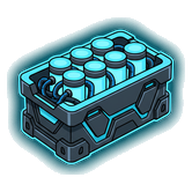
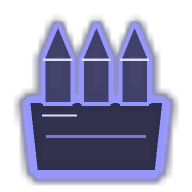
feat(visuels): bonus et nid redessinés dans le style néon des sprites
tools/generate_sprites.py (nouveau groupe « items ») :
- Munitions : chargeur néon (au lieu de la caisse 3D ombrée).
- x2 : pièce hexagonale et « x2 » tracé au néon (au lieu d'un simple texte).
- Invincibilité : étoile d'une seule couleur (au lieu de l'étoile multicolore).
- Multi-tir : trois tirs en éventail (au lieu des « feuilles » orange).
- Nid : nest_0..3.png, fissures lumineuses selon les dégâts (fx.nest_sprite
  garde son dessin de secours).
- Icônes de compétences skill_dash.png / skill_shield.png pour le HUD.

diff --git a/tools/generate_sprites.py b/tools/generate_sprites.py
@@ -1,7 +1,7 @@
 # -*- coding: utf-8 -*-
 """Génère les sprites des serpents et des mines dans un style néon unique (cyberSnake/*.png).
 
-Usage : python3 tools/generate_sprites.py
+Usage : python3 tools/generate_sprites.py [snakes] [items]
 Nécessite pygame. Même langage visuel que les icônes des bonus : contour lumineux épais,
 corps sombre, reflets clairs et halo. Les trois serpents partagent les mêmes formes ;
 seules la couleur et quelques détails (cornes de l'ennemi) changent.
@@ -10,6 +10,9 @@ seules la couleur et quelques détails (cornes de l'ennemi) changent.
 - snake_{p1,p2,enemy}_body.png : anneau (symétrique, n'est pas tourné en jeu)
 - snake_{p1,p2,enemy}_tail.png : pointe à gauche, base à droite (côté corps)
 - mine.png / mine_lit.png      : mine, noyau éteint / allumé (clignotement)
+- food_ammo, food_multiplier, icon_invincible, icon_multishot : bonus redessinés
+- nest_0..3.png                : nid (0 = intact, 3 = presque détruit)
+- skill_dash.png / skill_shield.png : compétences affichées dans le HUD
 
 J1 est dessiné en vert « cyber » et J2 en rose : le jeu recolore ces sprites dans la
 couleur choisie dans les Options (game_objects._hue_shifted).
@@ -184,20 +187,176 @@ def mine(lit):
     return L.render(0.95 if lit else 0.55)
 
 
-def main():
+# ---------------------------------------------------------------------------
+# Objets et bonus redessinés dans le même style (ceux qui détonnaient)
+# ---------------------------------------------------------------------------
+AMMO_BLUE = (150, 150, 255)
+GOLD = (255, 215, 0)
+INVINCIBLE_PINK = (255, 180, 220)
+MULTISHOT_ORANGE = (255, 110, 20)
+NEST_ORANGE = (255, 150, 40)
+DASH_CYAN = (0, 220, 255)
+SHIELD_GREEN = (0, 255, 120)
+
+
+def _mix3(a, b, t):
+    return tuple(int(a[i] + (b[i] - a[i]) * t) for i in range(3))
+
+
+def ammo():
+    """Chargeur : trois balles debout dans un étui."""
+    L = Layers()
+    c = AMMO_BLUE
+    hi = lighten(c, 0.7)
+    L.shape([P(0.14, 0.52), P(0.86, 0.52), P(0.82, 0.90), P(0.18, 0.90)], c, 0.28, 12)
+    for x in (0.30, 0.50, 0.70):
+        L.shape([P(x - 0.075, 0.54), P(x - 0.075, 0.30), P(x, 0.12), P(x + 0.075, 0.30), P(x + 0.075, 0.54)], c, 0.4, 8)
+        L.line(P(x - 0.075, 0.31), P(x + 0.075, 0.31), hi, 5, glow=False)
+    L.line(P(0.24, 0.71), P(0.76, 0.71), scale(c, 0.8), 6, glow=False)
+    L.line(P(0.22, 0.60), P(0.40, 0.60), hi, 4, glow=False)
+    return L.render()
+
+
+def multiplier():
+    """Pièce hexagonale et « x2 » tracé au néon (au lieu d'un simple texte)."""
+    L = Layers()
+    c = GOLD
+    hi = lighten(c, 0.7)
+    hexa = [P(0.5 + 0.44 * math.cos(math.pi / 6 + k * math.pi / 3), 0.5 + 0.44 * math.sin(math.pi / 6 + k * math.pi / 3)) for k in range(6)]
+    L.shape(hexa, c, 0.18, 10)
+    # « x »
+    L.line(P(0.20, 0.38), P(0.42, 0.64), hi, 12)
+    L.line(P(0.42, 0.38), P(0.20, 0.64), hi, 12)
+    # « 2 »
+    two = [P(0.52, 0.36), P(0.59, 0.28), P(0.71, 0.28), P(0.78, 0.36), P(0.77, 0.46), P(0.53, 0.70), P(0.80, 0.70)]
+    pygame.draw.lines(L.glow, hi + (255,), False, two, 24)
+    pygame.draw.lines(L.art, hi + (255,), False, two, 12)
+    for pt in two:
+        pygame.draw.circle(L.art, hi + (255,), (int(pt[0]), int(pt[1])), 6)
+    return L.render()
+
+
+def invincible():
+    """Étoile néon d'une seule couleur, avec étincelles."""
+    L = Layers()
+    c = INVINCIBLE_PINK
+    hi = lighten(c, 0.7)
+
+    def star(r_out, r_in, cx=0.5, cy=0.53):
+        return [P(cx + (r_out if k % 2 == 0 else r_in) * math.cos(-math.pi / 2 + k * math.pi / 5),
+                  cy + (r_out if k % 2 == 0 else r_in) * math.sin(-math.pi / 2 + k * math.pi / 5)) for k in range(10)]
+    L.shape(star(0.44, 0.19), c, 0.25, 11)
+    pygame.draw.polygon(L.art, hi + (255,), star(0.24, 0.10), 5)
+    for (x, y, r) in ((0.16, 0.16, 0.06), (0.86, 0.22, 0.045), (0.84, 0.86, 0.05)):
+        L.line(P(x - r, y), P(x + r, y), hi, 5)
+        L.line(P(x, y - r), P(x, y + r), hi, 5)
+    return L.render()
+
+
+def multishot():
+    """Trois tirs en éventail depuis un canon."""
+    L = Layers()
+    c = MULTISHOT_ORANGE
+    hi = lighten(c, 0.7)
+    base = (0.16, 0.5)
+    L.shape([P(0.06, 0.40), P(0.24, 0.40), P(0.30, 0.50), P(0.24, 0.60), P(0.06, 0.60)], c, 0.35, 9)
+    for ang in (-28, 0, 28):
+        a = math.radians(ang)
+        x0, y0 = base[0] + 0.20 * math.cos(a), base[1] + 0.20 * math.sin(a)
+        x1, y1 = base[0] + 0.66 * math.cos(a), base[1] + 0.66 * math.sin(a)
+        L.line(P(x0, y0), P(x1, y1), c, 12)
+        for sgn in (-1, 1):  # Pointe de flèche
+            b = a + math.pi + sgn * 0.5
+            L.line(P(x1, y1), P(x1 + 0.12 * math.cos(b), y1 + 0.12 * math.sin(b)), c, 10)
+        L.line(P(x0, y0), P(x1, y1), hi, 4, glow=False)
+    return L.render()
+
+
+def nest(step):
+    """Nid : œuf alien au contour néon ; step 0..3 = dégâts (fissures lumineuses)."""
+    L = Layers()
+    c = _mix3(NEST_ORANGE, (255, 60, 50), step / 3.0)
+    hi = lighten(c, 0.6)
+    rect = pygame.Rect(int(0.20 * W), int(0.08 * W), int(0.60 * W), int(0.84 * W))
+    pygame.draw.ellipse(L.glow, c + (255,), rect.inflate(20, 20), 28)
+    pygame.draw.ellipse(L.art, scale(c, 0.22) + (245,), rect)
+    pygame.draw.ellipse(L.art, c + (255,), rect, 12)
+    # Segments de la coquille
+    for k in (-1, 1):
+        inner = pygame.Rect(int((0.5 - 0.16) * W) if k < 0 else int(0.5 * W - 0.02 * W), int(0.18 * W), int(0.18 * W), int(0.64 * W))
+        start, end = (math.radians(90), math.radians(270)) if k < 0 else (math.radians(-90), math.radians(90))
+        pygame.draw.arc(L.art, scale(c, 0.7) + (255,), inner, start, end, 5)
+    L.line(P(0.5, 0.18), P(0.5, 0.82), scale(c, 0.7), 5, glow=False)
+    # Noyau vivant
+    L.circle(P(0.5, 0.56), 0.09 * W, hi)
+    # Fissures lumineuses selon les dégâts
+    cracks = [[(0.36, 0.14), (0.44, 0.34), (0.36, 0.46)], [(0.64, 0.20), (0.56, 0.40), (0.66, 0.54)],
+              [(0.40, 0.90), (0.48, 0.72), (0.40, 0.62)]]
+    for pts in cracks[:step]:
+        pp = [P(*q) for q in pts]
+        pygame.draw.lines(L.glow, (255, 240, 200, 255), False, pp, 16)
+        pygame.draw.lines(L.art, (255, 240, 200, 255), False, pp, 6)
+    return L.render(min(1.0, 0.8 + 0.06 * step))
+
+
+def skill_dash():
+    """Compétence Dash : doubles chevrons et traits de vitesse."""
+    L = Layers()
+    c = DASH_CYAN
+    hi = lighten(c, 0.7)
+    for x in (0.34, 0.58):
+        L.shape([P(x, 0.22), P(x + 0.22, 0.50), P(x, 0.78), P(x - 0.08, 0.78), P(x + 0.12, 0.50), P(x - 0.08, 0.22)], c, 0.3, 8)
+    for y, ln in ((0.32, 0.14), (0.50, 0.20), (0.68, 0.14)):
+        L.line(P(0.06, y), P(0.06 + ln, y), hi, 6)
+    return L.render()
+
+
+def skill_shield():
+    """Compétence Bouclier : écu avec éclair."""
+    L = Layers()
+    c = SHIELD_GREEN
+    hi = lighten(c, 0.7)
+    L.shape([P(0.5, 0.08), P(0.86, 0.22), P(0.80, 0.60), P(0.5, 0.92), P(0.20, 0.60), P(0.14, 0.22)], c, 0.22, 11)
+    L.shape([P(0.56, 0.22), P(0.36, 0.54), P(0.50, 0.54), P(0.42, 0.80), P(0.66, 0.44), P(0.52, 0.44), P(0.60, 0.22)], hi, 0.9, 4)
+    return L.render()
+
+
+ITEMS = {
+    "food_ammo.png": ammo,
+    "food_multiplier.png": multiplier,
+    "icon_invincible.png": invincible,
+    "icon_multishot.png": multishot,
+    "skill_dash.png": skill_dash,
+    "skill_shield.png": skill_shield,
+}
+
+
+def main(groups=("snakes", "items")):
+    """groups : « snakes » (serpents + mines), « items » (objets, bonus, nid, compétences)."""
     pygame.init()
     pygame.display.set_mode((1, 1))
-    for who, color in SNAKES.items():
-        enemy = who == "enemy"
-        for part, fn in (("head", head), ("body", body), ("tail", tail)):
-            path = os.path.join(OUT, f"snake_{who}_{part}.png")
-            pygame.image.save(fn(color, enemy), path)
+    if "snakes" in groups:
+        for who, color in SNAKES.items():
+            enemy = who == "enemy"
+            for part, fn in (("head", head), ("body", body), ("tail", tail)):
+                path = os.path.join(OUT, f"snake_{who}_{part}.png")
+                pygame.image.save(fn(color, enemy), path)
+                print("écrit", path)
+        for lit, name in ((False, "mine.png"), (True, "mine_lit.png")):
+            path = os.path.join(OUT, name)
+            pygame.image.save(mine(lit), path)
             print("écrit", path)
-    for lit, name in ((False, "mine.png"), (True, "mine_lit.png")):
-        path = os.path.join(OUT, name)
-        pygame.image.save(mine(lit), path)
-        print("écrit", path)
+    if "items" in groups:
+        for name, fn in ITEMS.items():
+            path = os.path.join(OUT, name)
+            pygame.image.save(fn(), path)
+            print("écrit", path)
+        for step in range(4):
+            path = os.path.join(OUT, f"nest_{step}.png")
+            pygame.image.save(nest(step), path)
+            print("écrit", path)
 
 
 if __name__ == "__main__":
-    main()
+    import sys
+    main(tuple(sys.argv[1:]) or ("snakes", "items"))

diff --git a/cyberSnake/fx.py b/cyberSnake/fx.py
@@ -283,6 +283,11 @@ def mine_sprite(size, lit):
 def nest_sprite(size, damage_ratio):
     """Nid : œuf alien segmenté, qui rougit et se fissure avec les dégâts."""
     step = int(round(max(0.0, min(1.0, damage_ratio)) * 3))
+    import utils  # Import local : utils importe déjà fx
+    src = utils.images_hd.get(f"nest_{step}.png")  # tools/generate_sprites.py
+    if src is not None:
+        return _cached(('nest_png', int(size), step, id(src)),
+                       lambda: pygame.transform.smoothscale(src, (max(10, int(size)), max(10, int(size)))))
 
     def build():
         s = max(10, int(size))

diff --git a/cyberSnake/utils.py b/cyberSnake/utils.py
@@ -342,7 +342,8 @@ def load_assets(base_path):
     for who in ("p1", "p2", "enemy"):
         for part in ("head", "body", "tail"):
             files_to_load.append(f"snake_{who}_{part}.png")
-    files_to_load += ["mine.png", "mine_lit.png"]
+    files_to_load += ["mine.png", "mine_lit.png", "skill_dash.png", "skill_shield.png"]
+    files_to_load += [f"nest_{k}.png" for k in range(4)]
 
     for filename in files_to_load:
         full_path = os.path.join(base_path, filename)
